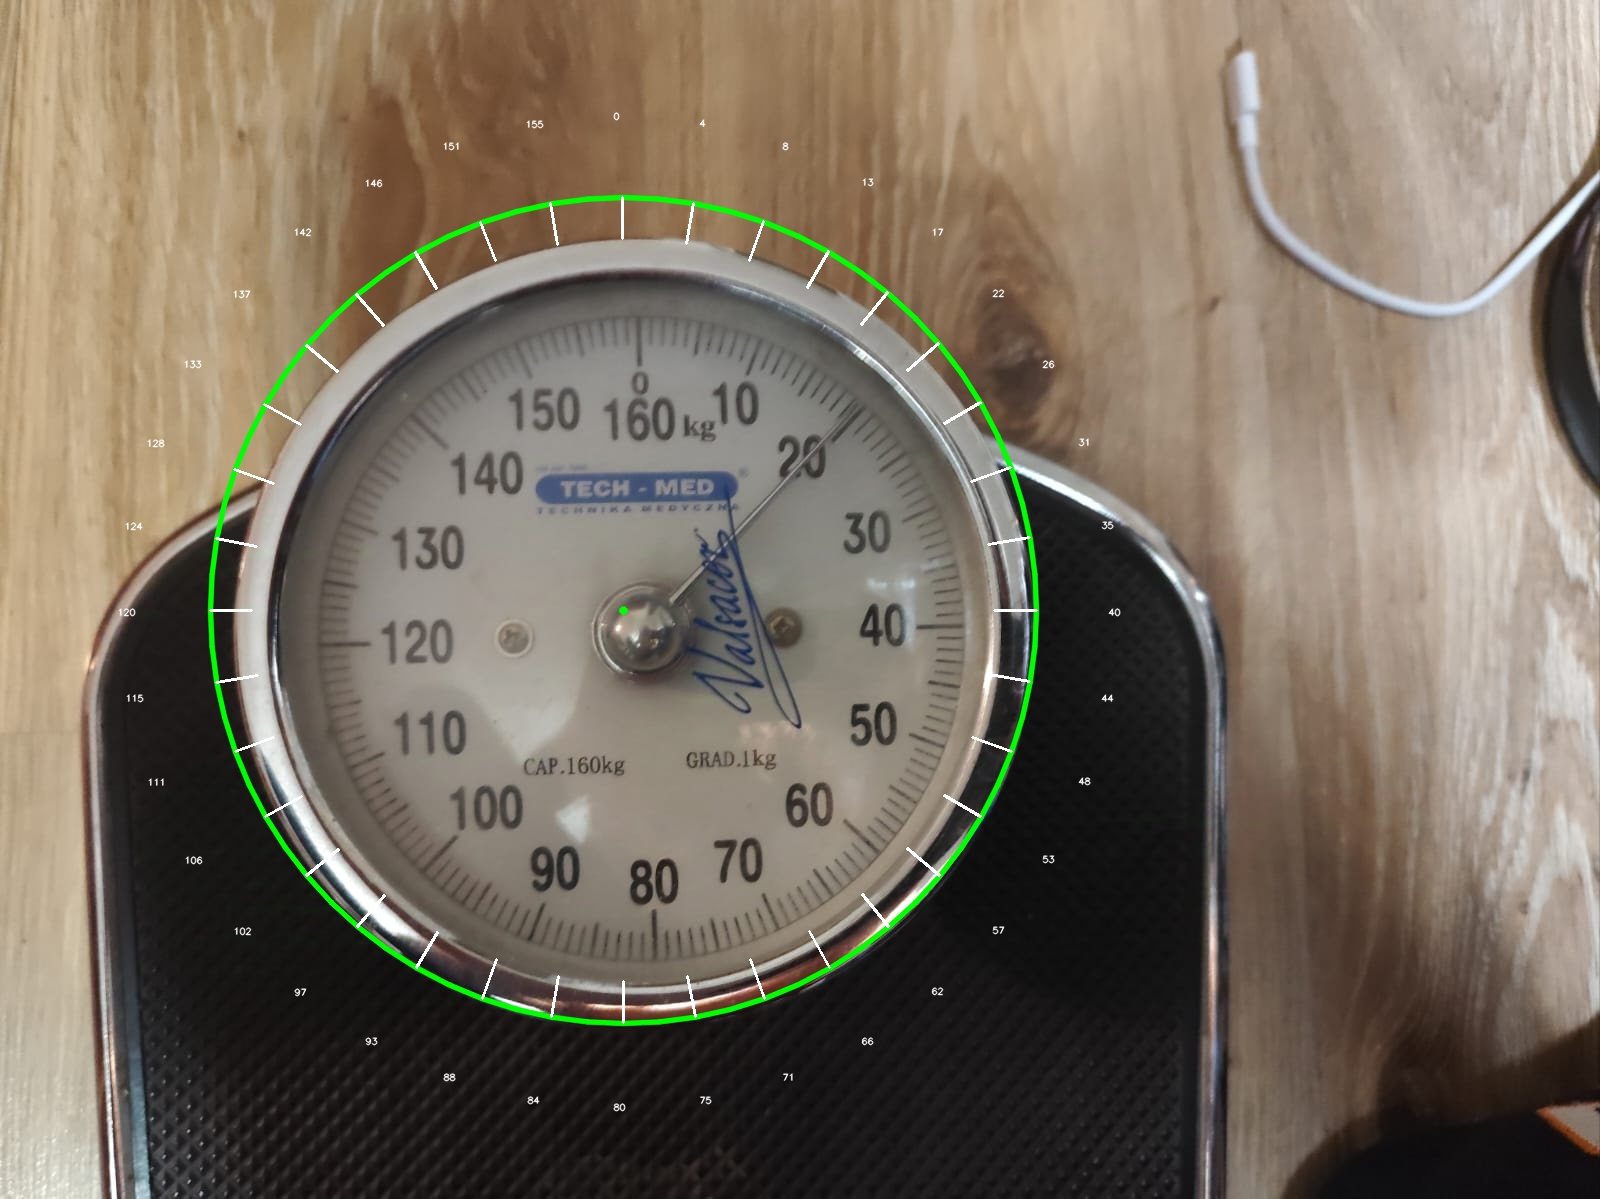
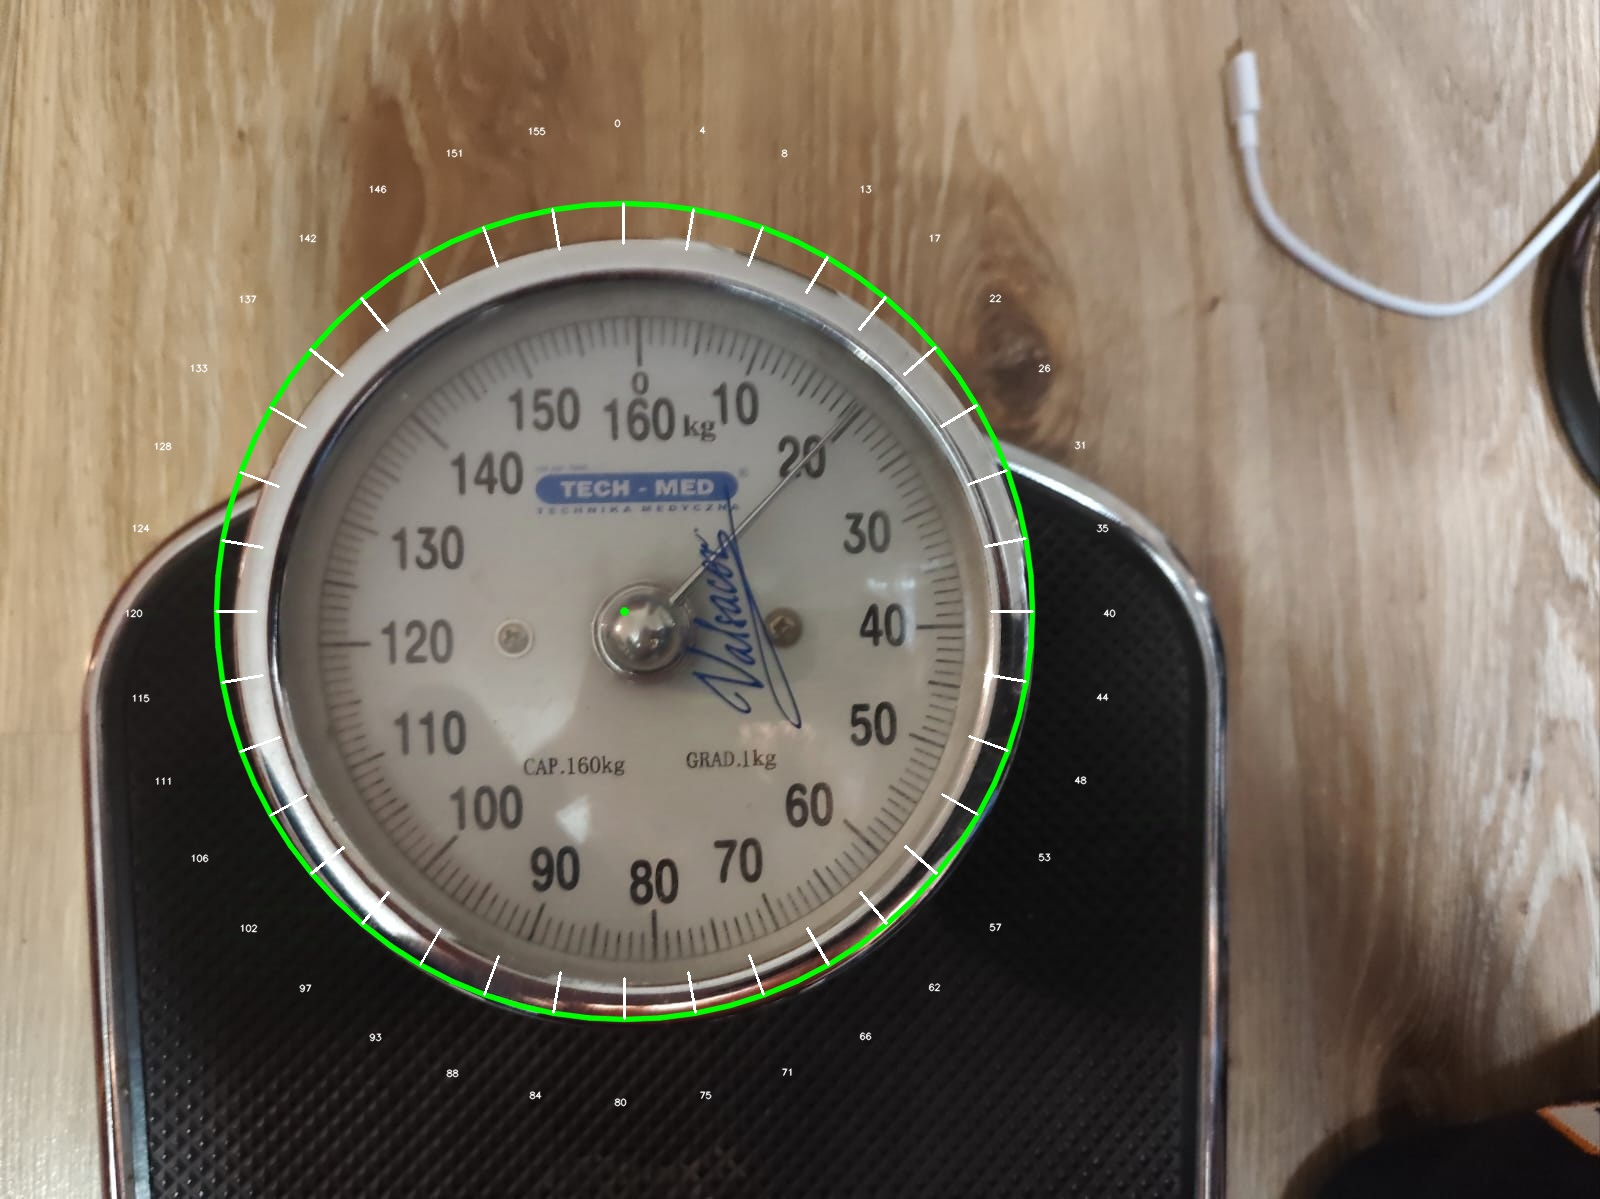
18_11 classes version

diff --git a/analog_gauge_reader.py b/analog_gauge_reader.py
@@ -1,8 +1,9 @@
 import cv2
 import numpy as np
+import math
 
 PI=3.14
-WHITE,GREEN=(255,255,255), (0,255,0)
+WHITE,GREEN,RED,BLUE=(255,255,255), (0,255,0), (255,0,0), (0,0,255)
 
 def avg_circles(circles, b):
     avg_x=0
@@ -25,13 +26,13 @@ def calibrate_circle(gauge_number, file_type):
     #save gray image
     cv2.imwrite('gauge-%s-bw.%s' %(gauge_number, file_type),gray)
 
-    circles = cv2.HoughCircles(gray, cv2.HOUGH_GRADIENT, 1, 20, np.array([]), 100, 50, int(height*0.30), int(height*0.45))
+    circles = cv2.HoughCircles(gray, cv2.HOUGH_GRADIENT, 1, 10, np.array([]), 100, 50, int(height*0.30), int(height*0.45))
     a, num_of_circles, c = circles.shape
     x,y,r = avg_circles(circles, num_of_circles)
     cv2.circle(img, (x, y), r, GREEN, 3, cv2.LINE_AA)  # draw circle
     cv2.circle(img, (x, y), 2, GREEN, 3, cv2.LINE_AA)  # draw center of circle
     #save gray image with average circle and circle center
-    cv2.imwrite('gauge-%s-circles.%s' % (gauge_number, file_type), img)
+    #cv2.imwrite('gauge-%s-circles.%s' % (gauge_number, file_type), img)
 
     separation = 10.0 #in degrees
     interval = int(360 / separation)
@@ -46,7 +47,8 @@ def calibrate_circle(gauge_number, file_type):
                 p1[i][j] = x + 0.9 * r * np.cos(separation * i * PI / 180) 
             else:
                 p1[i][j] = y + 0.9 * r * np.sin(separation * i * PI / 180)
-                
+    
+             
     text_offset_x = 10
     text_offset_y = 5
     for i in range(0, interval):
@@ -57,17 +59,46 @@ def calibrate_circle(gauge_number, file_type):
             else:
                 p2[i][j] = y + r * np.sin(separation * i * PI / 180)
                 p_text[i][j] = y + text_offset_y + 1.2* r * np.sin((separation) * (i-9) * PI / 180)
-
+    #draw scale texts            
     for i in range(0,interval):
         cv2.line(img, (int(p1[i][0]), int(p1[i][1])), (int(p2[i][0]), int(p2[i][1])),WHITE, 2)
         cv2.putText(img, '%s' %(int((i*separation)*160/360)), (int(p_text[i][0]), int(p_text[i][1])), cv2.FONT_HERSHEY_SIMPLEX, 0.3,WHITE,1,cv2.LINE_AA)
         
     #save image with circle,lines
-    cv2.imwrite('gauge-%s-calibration.%s' % (gauge_number, file_type), img) 
+    cv2.imwrite('gauge-%s-calibration.%s' % (gauge_number, file_type), img)
+    
 
 def read_needle(gauge_number, file_type):
     img = cv2.imread('./analog_scale_img/%s.%s' %(gauge_number, file_type))
     gray = cv2.cvtColor(img, cv2.COLOR_BGR2GRAY)
+    dst = cv2.Canny(gray, 50, 200, None, 3)
+   
+    lines = cv2.HoughLines(dst, 1, np.pi / 180, 250, None, 0, 0)
+    # Draw the lines
+    if lines is not None:
+        for i in range(0, len(lines)):
+            rho = lines[i][0][0]
+            theta = lines[i][0][1]
+            a = math.cos(theta)
+            b = math.sin(theta)
+            x0 = a * rho
+            y0 = b * rho
+            pt1 = (int(x0 + 1000*(-b)), int(y0 + 1000*(a)))
+            pt2 = (int(x0 - 1000*(-b)), int(y0 - 1000*(a)))
+            cv2.line(img, pt1, pt2, WHITE, 3, cv2.LINE_AA)
+            
+    
+    cv2.imshow('name', img)
+    cv2.waitKey(0)
+    
+    # Probabilistic Line Transform
+    #linesP = cv2.HoughLinesP(dst, 1, np.pi / 180, 50, None, 50, 10)
+    #TODO
+
+def process_video():
+    cap = cv2.VideoCapture('./analog_scale_video/xxx.mp4')
+    if (cap.isOpened()== False): 
+        print("Error opening video stream or file")
     #TODO
 
 def main():
@@ -77,8 +108,71 @@ def main():
         file_type='jpeg'
         print('./analog_scale_img/%s.%s' % (gauge_number, file_type))
         calibrate_circle(gauge_number, file_type)
-        read_needle(gauge_number, file_type)
+    #read_needle(gauge_number, file_type)
+    #process_video()
+    
         
 if __name__=='__main__':
     main()
-   	
+
+
+
+
+
+
+
+
+
+
+
+
+
+
+
+
+
+
+
+
+
+
+def circle_mask(gauge_number, file_type):
+    # read image
+    img = cv2.imread('./analog_scale_img/%s.%s' %(gauge_number, file_type))
+    #TODO
+    hh, ww = img.shape[:2]
+    hh2 = hh // 2
+    ww2 = ww // 2
+    
+    # define circles
+    radius1 = 25
+    radius2 = 75
+    xc = hh // 2
+    yc = ww // 2
+    
+    # draw filled circles in white on black background as masks
+    mask1 = np.zeros_like(img)
+    mask1 = cv2.circle(mask1, (xc,yc), radius1, (255,255,255), -1)
+    mask2 = np.zeros_like(img)
+    mask2 = cv2.circle(mask2, (xc,yc), radius2, (255,255,255), -1)
+    
+    # subtract masks and make into single channel
+    mask = cv2.subtract(mask2, mask1)
+    
+    # put mask into alpha channel of input
+    result = cv2.cvtColor(img, cv2.COLOR_BGR2BGRA)
+    result[:, :, 3] = mask[:,:,0]
+    
+    # save results
+    cv2.imwrite('lena_mask1.png', mask1)
+    cv2.imwrite('lena_mask2.png', mask2)
+    cv2.imwrite('lena_masks.png', mask)
+    cv2.imwrite('lena_circle_masks.png', result)
+    
+    cv2.imshow('image', img)
+    cv2.imshow('mask1', mask1)
+    cv2.imshow('mask2', mask2)
+    cv2.imshow('mask', mask)
+    cv2.imshow('masked image', result)
+    cv2.waitKey(0)
+    cv2.destroyAllWindows()   	
